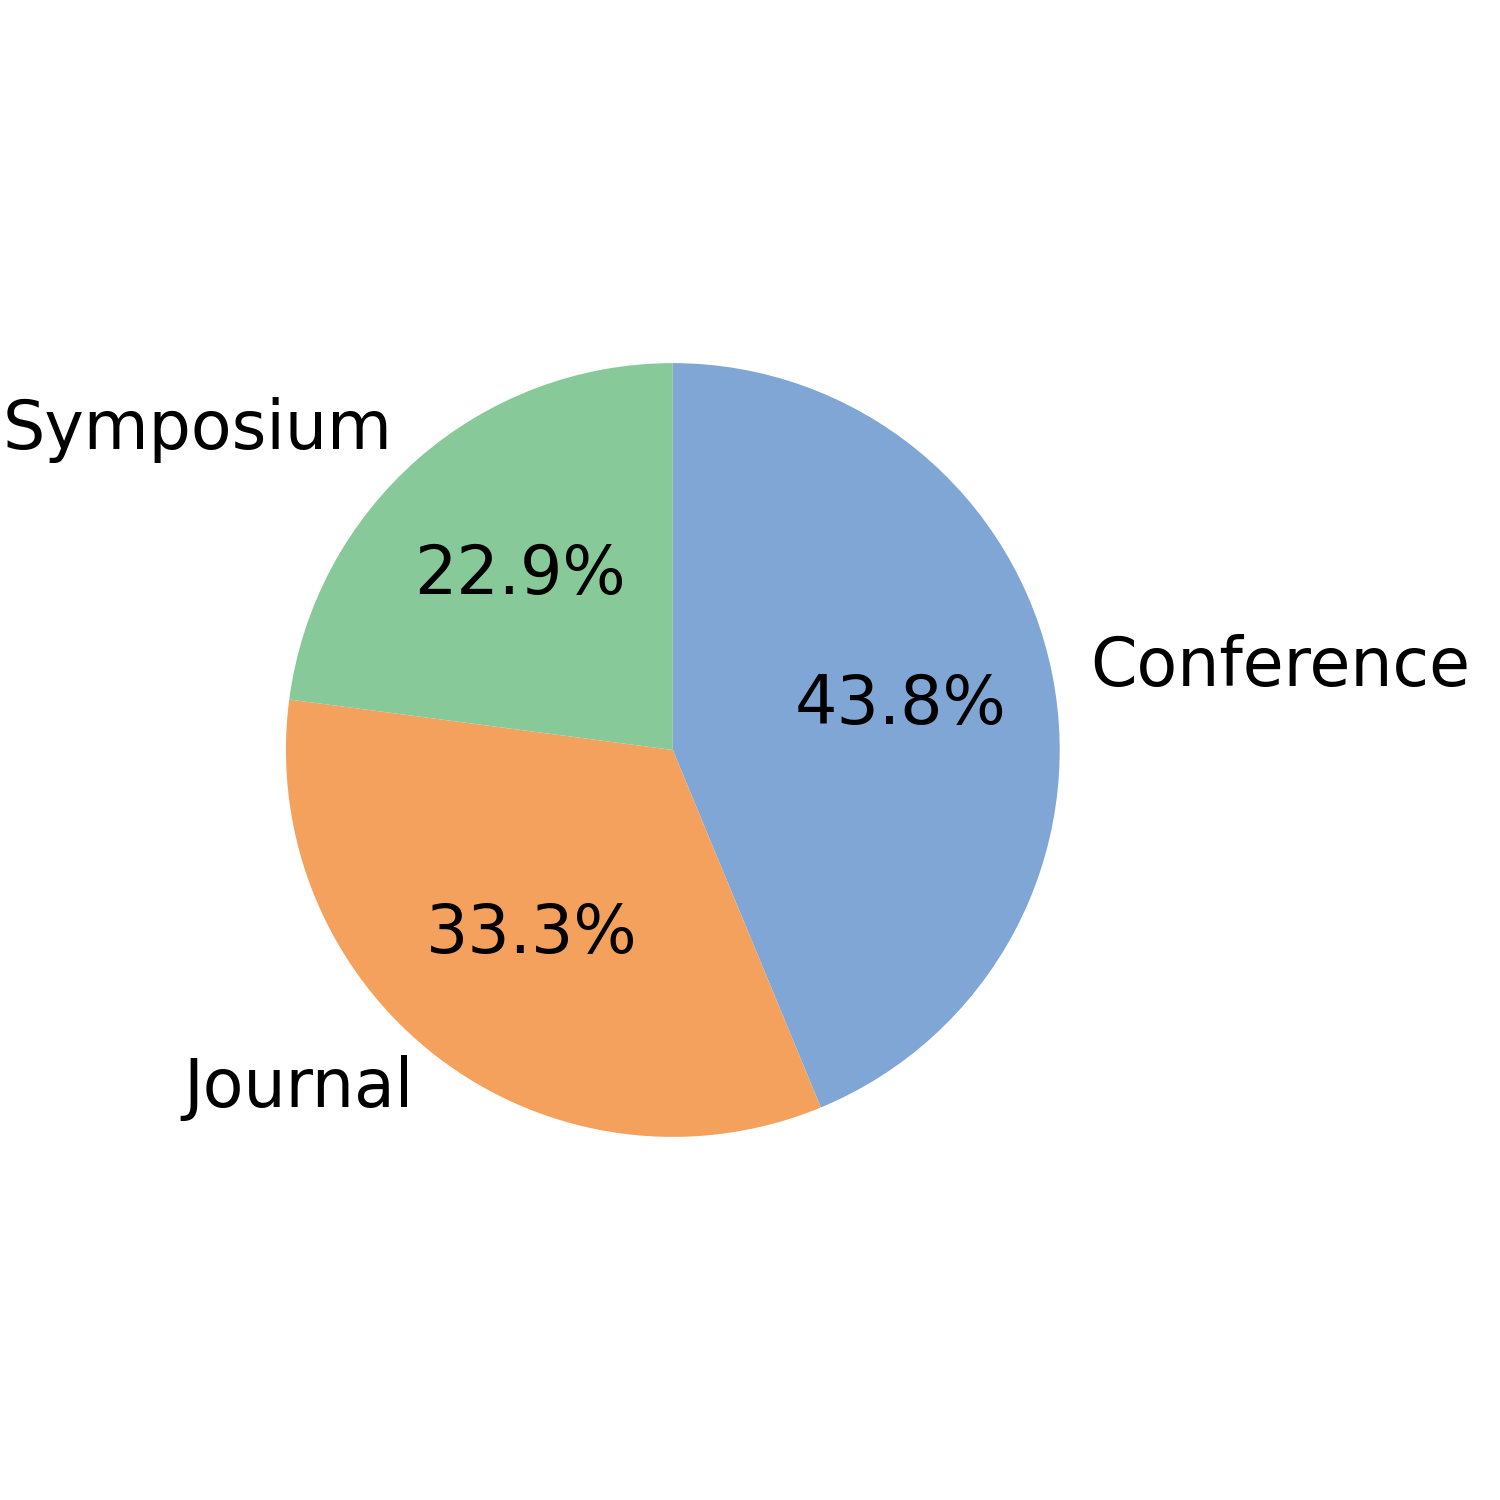
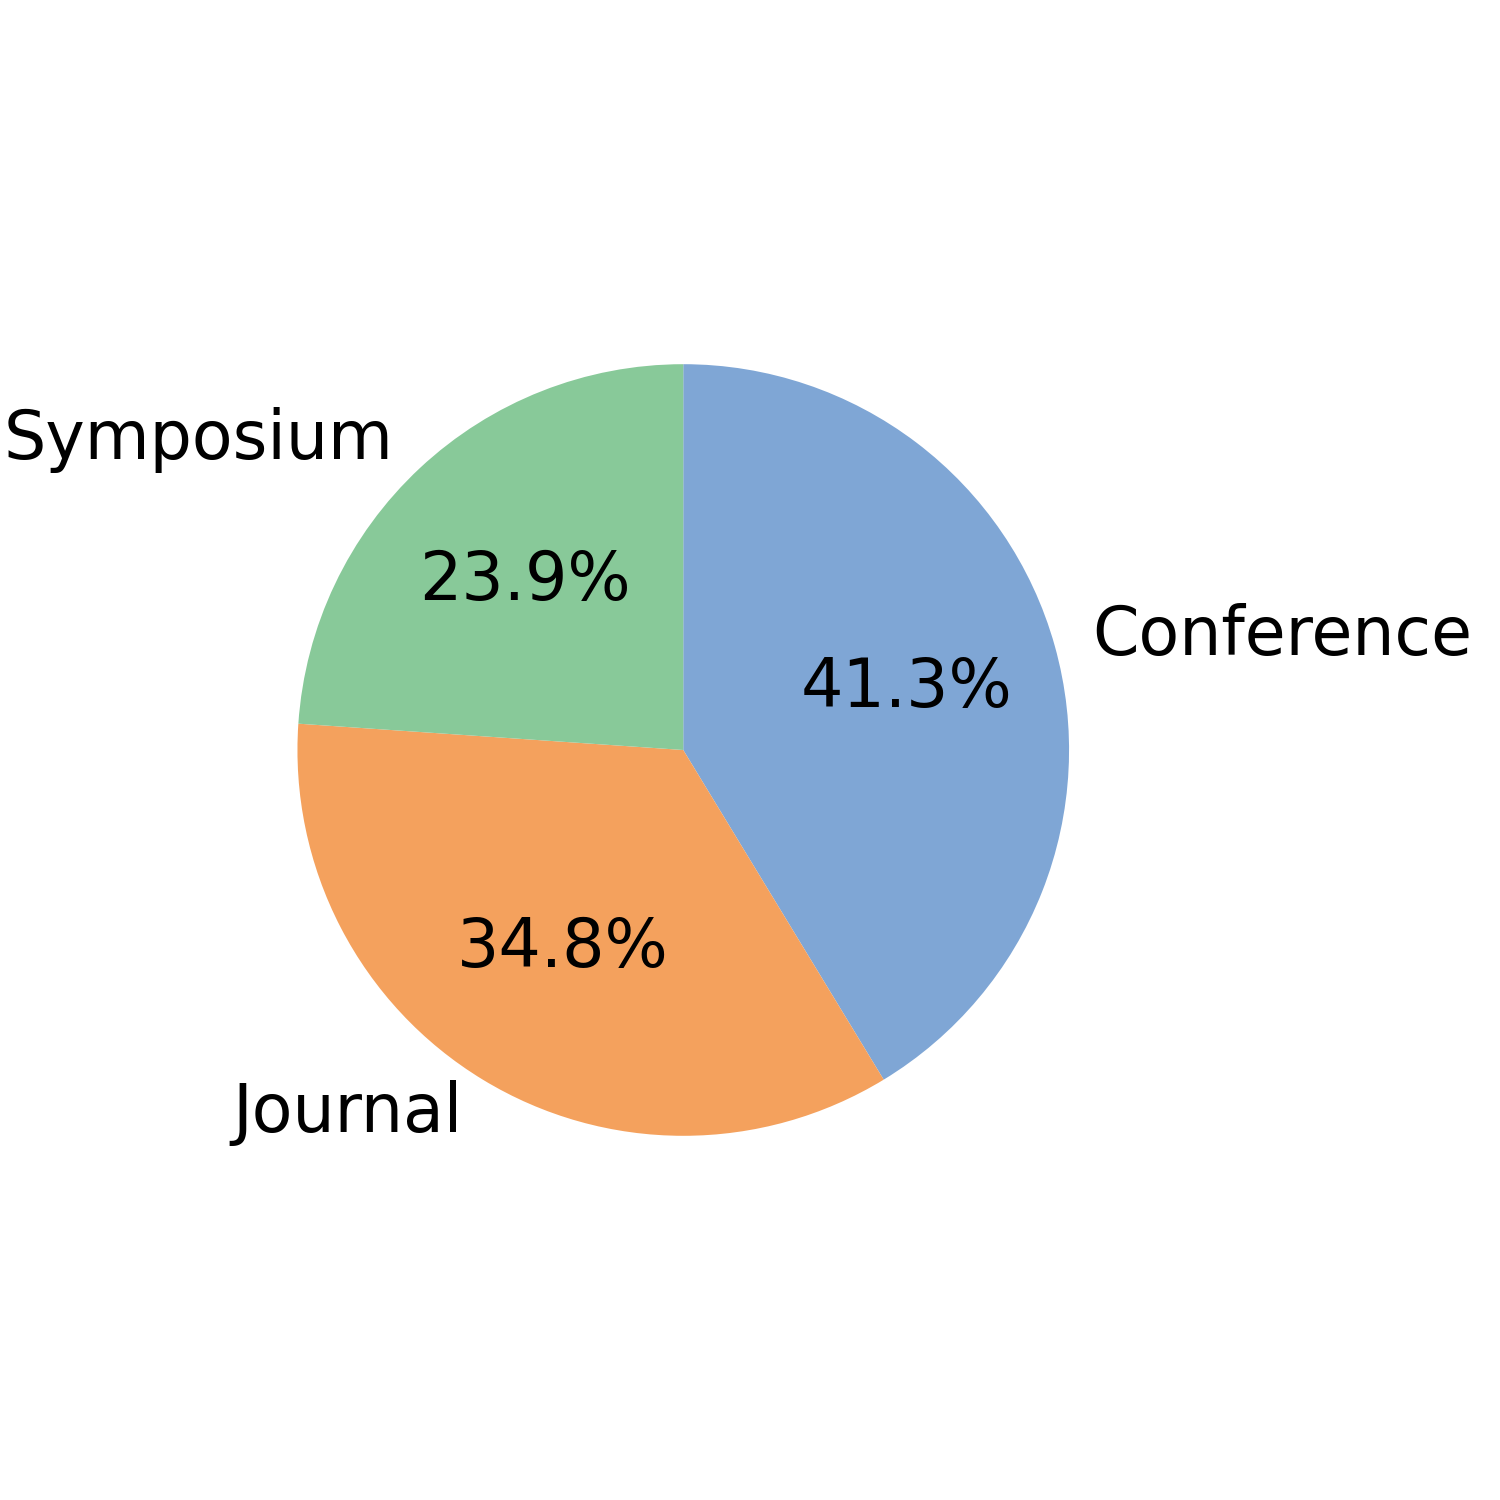
Update included studies.

diff --git a/README.md b/README.md
@@ -9,7 +9,7 @@ for each research question.
 ## What this package includes
 
 - Raw search results per venue
-- The full list of the 50 primary studies included in the review
+- The full list of the 48 primary studies included in the review
 - Extracted/coded data used to answer each RQ
 - Source data and scripts for the tables and figures in the paper
 
@@ -40,7 +40,7 @@ for each research question.
     generate-figures.py             regenerates ../figures/article_numbers.png, ../figures/article_distribution.png
     generate-sankey.py              regenerates ../figures/sankey_rq_combinations_reproduction.png
 
-/primary-studies.csv            full list of the 50 included studies
+/primary-studies.csv            full list of the 48 included studies
                                  (citation key, title, authors, year, venue, link, source: automated search(AS)/snowballing(SB))
 
 README.md                       this file
@@ -110,13 +110,13 @@ per-venue counts are in `search-results/` and `figures/venue-table-source.csv`.
 |---|---:|
 | Articles initially screened across all venues | 14,832 |
 | Full-text reviewed | 1,306 |
-| Included via automated search (AS) | 46 |
+| Included via automated search (AS) | 44 |
 | Included via snowball search (SB) | 4 |
 | &nbsp;&nbsp;-- backward snowball | 2 |
 | &nbsp;&nbsp;-- forward snowball | 2 |
-| **Total primary studies** | **50** |
+| **Total primary studies** | **48** |
 
-The full list of 50 primary studies, with citation details and link, is in
+The full list of 48 primary studies, with citation details and link, is in
 `primary-studies.csv`.
 
 ## Quality assessment
